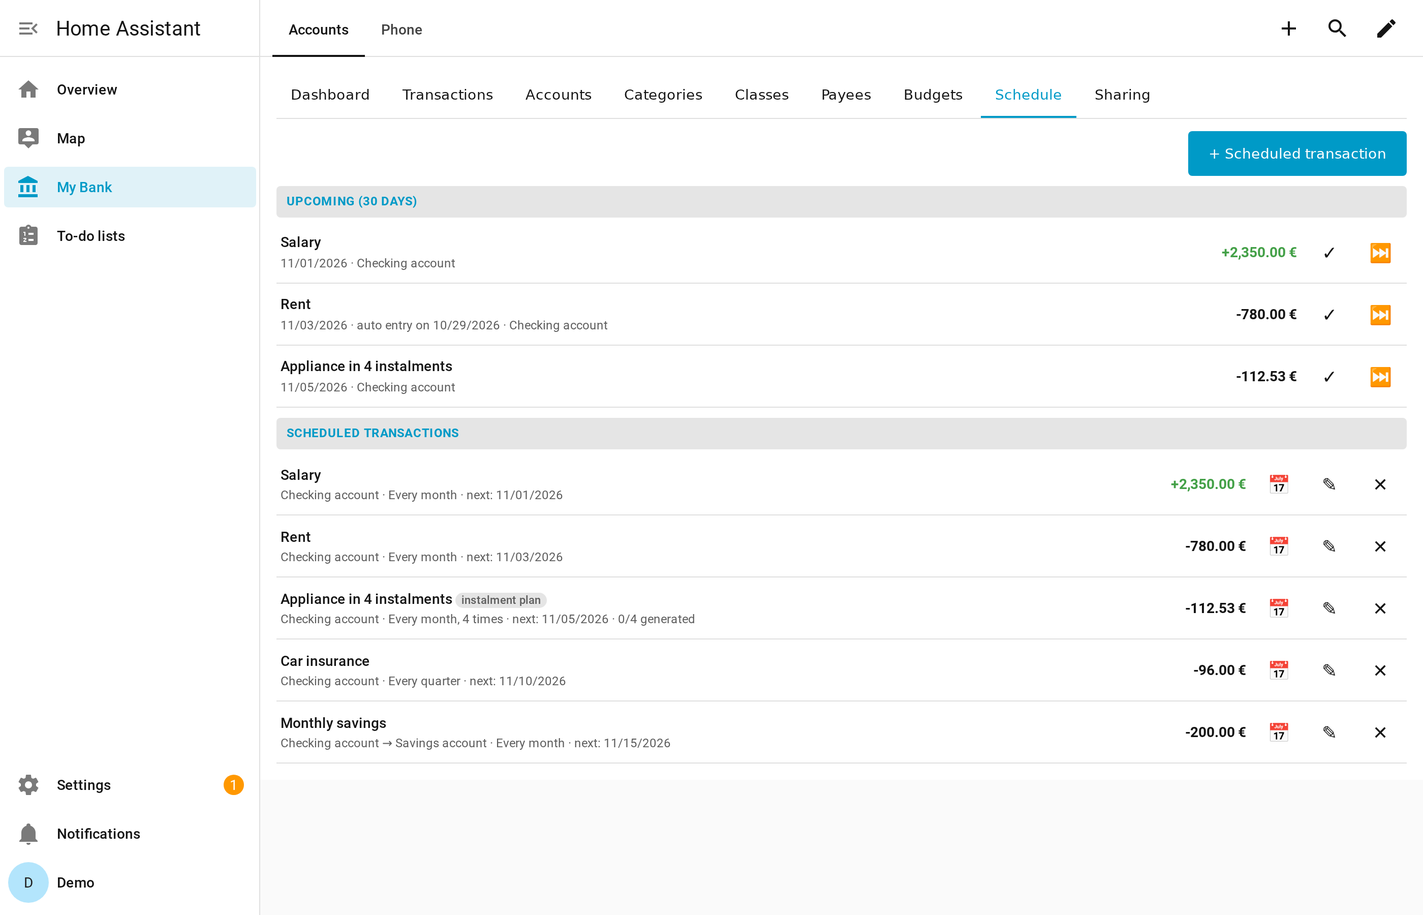
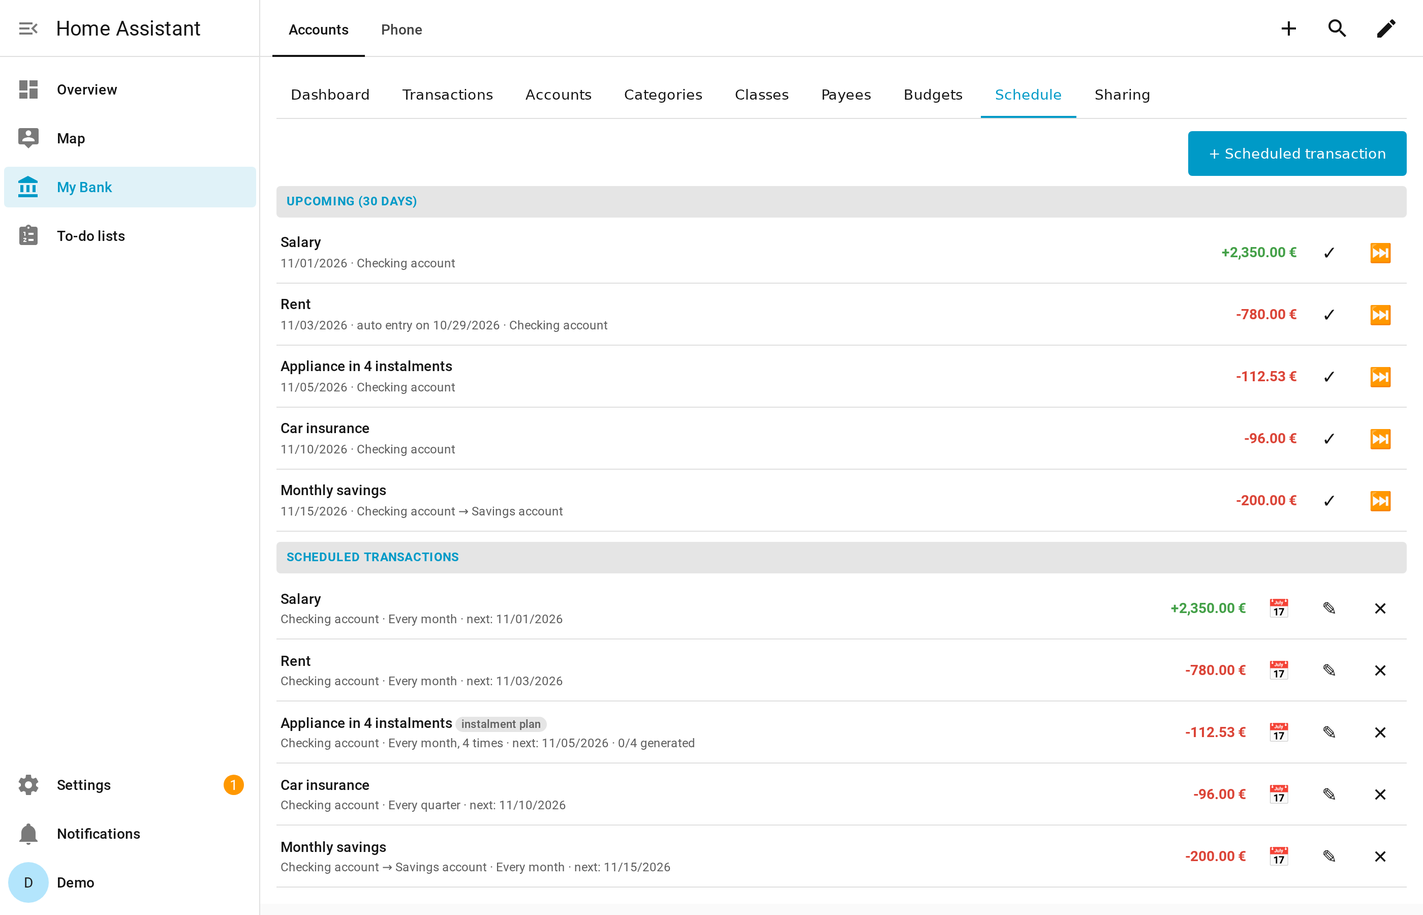
0.13.2 : montants en rouge (dépenses) / vert (recettes), README allemand, section rubriques et classes
- Liste des opérations, échéances à venir et planifications : montants négatifs en rouge
  (les positifs étaient déjà en vert).
- README.de.md (traduction complète), liens entre les trois README.
- Nouvelle section « Rubriques et classes » (EN/FR/DE) : la rubrique d'abord, la classe
  pour l'analytique (exemple Essence / Véhicule A / Véhicule B).
- Captures opérations et planifications refaites dans les trois langues.

diff --git a/custom_components/my_bank/www/my-bank-card.js b/custom_components/my_bank/www/my-bank-card.js
@@ -236,6 +236,7 @@ const STYLE = `
   .tx-amounts { text-align: right; flex-shrink: 0; }
   .tx-amount { font-size: 14px; font-weight: 600; }
   .tx-amount.credit { color: var(--success-color, #43a047); }
+  .tx-amount.debit { color: var(--error-color, #db4437); }
   .tx-balance { font-size: 11px; color: var(--secondary-text-color); }
   .tx-actions { display: flex; gap: 6px; flex-shrink: 0; }
   .tx-actions button.tx-state { border: 1px solid var(--divider-color); border-radius: 4px; line-height: 1; opacity: 0.45; }
@@ -847,7 +848,7 @@ class MyBankCard extends HTMLElement {
         </div>
         <div class="tx-right">
           <div class="tx-amounts">
-            <div class="tx-amount ${credit ? "credit" : ""}">${credit ? "+" : ""}${fmtAmount(tx.amount)} €</div>
+            <div class="tx-amount ${credit ? "credit" : Number(tx.amount) < 0 ? "debit" : ""}">${credit ? "+" : ""}${fmtAmount(tx.amount)} €</div>
             <div class="tx-balance">${t("Solde :")} ${fmtAmount(tx.balance_after)}</div>
           </div>
           <div class="tx-actions">
@@ -1457,7 +1458,7 @@ class MyBankCard extends HTMLElement {
               ].filter(Boolean).join(" · "))}</div>
             </div>
             <div class="tx-right">
-              <div class="tx-amounts"><div class="tx-amount ${Number(o.amount) > 0 ? "credit" : ""}">${Number(o.amount) > 0 ? "+" : ""}${fmtAmount(o.amount)} €</div></div>
+              <div class="tx-amounts"><div class="tx-amount ${Number(o.amount) > 0 ? "credit" : Number(o.amount) < 0 ? "debit" : ""}">${Number(o.amount) > 0 ? "+" : ""}${fmtAmount(o.amount)} €</div></div>
               <div class="tx-actions">
                 <button class="occ-generate" title="${t("Saisir l'opération maintenant")}">✓</button>
                 <button class="occ-skip" title="${t("Sauter cette échéance")}">⏭</button>
@@ -1485,7 +1486,7 @@ class MyBankCard extends HTMLElement {
               <div class="tx-sub">${esc(sub.join(" · "))}</div>
             </div>
             <div class="tx-right">
-              <div class="tx-amounts"><div class="tx-amount ${Number(amount) > 0 ? "credit" : ""}">${Number(amount) > 0 ? "+" : ""}${fmtAmount(amount)} €</div></div>
+              <div class="tx-amounts"><div class="tx-amount ${Number(amount) > 0 ? "credit" : Number(amount) < 0 ? "debit" : ""}">${Number(amount) > 0 ? "+" : ""}${fmtAmount(amount)} €</div></div>
               <div class="tx-actions">
                 <button class="grid" title="${t("Échéances")}">📅</button>
                 <button class="edit" title="${t("Modifier")}">✎</button>

diff --git a/custom_components/my_bank/frontend.py b/custom_components/my_bank/frontend.py
@@ -17,7 +17,7 @@ from .const import DOMAIN
 
 _LOGGER = logging.getLogger(__name__)
 
-CARD_VERSION = "0.13.1"
+CARD_VERSION = "0.13.2"
 CARD_URL_PATH = "/my_bank/my-bank-card.js"
 _REGISTERED = f"{DOMAIN}_frontend_registered"
 

diff --git a/README.de.md b/README.de.md
@@ -1,0 +1,233 @@
+# My Bank für Home Assistant
+
+🇬🇧 [Read in English](https://github.com/Patafoin/ha-my-bank/blob/main/README.md) · 🇫🇷 [Lire en français](https://github.com/Patafoin/ha-my-bank/blob/main/README.fr.md)
+
+[![hacs_badge](https://img.shields.io/badge/HACS-Custom-41BDF5.svg)](https://hacs.xyz/)
+[![Validate](https://github.com/Patafoin/ha-my-bank/actions/workflows/validate.yml/badge.svg)](https://github.com/Patafoin/ha-my-bank/actions/workflows/validate.yml)
+[![Tests](https://github.com/Patafoin/ha-my-bank/actions/workflows/tests.yml/badge.svg)](https://github.com/Patafoin/ha-my-bank/actions/workflows/tests.yml)
+
+Persönliche Finanzverwaltung in Home Assistant, so wie Haushaltsbuch-Programme am Computer: Konten mit drei Kontoständen, abgeglichene und abgestimmte Buchungen, Aufteilungen, Umbuchungen, hierarchische Kategorien, Daueraufträge, Budgets und geteilte Ausgaben unter Freunden — über eine Dashboard-Karte, auf dem Handy, überall.
+
+![Übersicht](docs/images/de/card-dashboard.png)
+
+💬 Fragen, Rückmeldungen, Ideen: [Diskussion im Home Assistant Community-Forum](https://community.home-assistant.io/t/my-bank-personal-bookkeeping-in-home-assistant-accounts-budgets-charts-scheduled-shared-expenses-100-local/1029114) (auf Englisch).
+
+> Verfügbar auf **Englisch, Französisch und Deutsch** (Karten, Dienste, Einrichtung, Servermeldungen), je nach Sprache von Home Assistant.
+
+## Funktionsweise
+
+My Bank besteht aus zwei Teilen:
+
+| Teil | Was es ist | Installation |
+|---|---|---|
+| **My Bank API** | Der Server: speichert Ihre Daten in einer lokalen SQLite-Datenbank, berechnet Kontostände und Budgets, erzeugt die Daueraufträge, sichert sich jede Nacht selbst | Home Assistant **App** (früher *Add-on*; Home Assistant OS / Supervised) oder **Docker**-Container |
+| **My Bank** (dieses Repository) | Die Integration und ihre Lovelace-Karten: Sensoren, Dienste und Benutzeroberfläche | **HACS** |
+
+Die Integration ist ein schlanker Client: Alle Regeln (Kontostände, Sperre abgestimmter Buchungen, Budgetberechnungen…) liegen im Server. Ihre Daten verlassen nie Ihr Netzwerk.
+
+## Voraussetzungen
+
+- Home Assistant **2026.2 oder neuer** und [HACS](https://hacs.xyz/) zur Installation der Integration. Getestet mit 2026.2.3 und 2026.10.0.
+- Für den Server, wahlweise:
+  - **Home Assistant OS** oder eine **Supervised**-Installation auf einem 64-Bit-System (amd64 oder aarch64, z. B. Raspberry Pi 4/5 mit dem 64-Bit-Image), um die App zu nutzen — getestet mit Home Assistant OS 18.3;
+  - oder **Docker** auf einem beliebigen 64-Bit-Rechner in Ihrem Netzwerk (amd64 oder arm64), für Installationen von Home Assistant Container / Core.
+
+## Installation
+
+### 1. Der Server
+
+**Home Assistant OS / Supervised — App (empfohlen)**
+
+[![App-Repository zu Ihrem Home Assistant hinzufügen.](https://my.home-assistant.io/badges/supervisor_add_addon_repository.svg)](https://my.home-assistant.io/redirect/supervisor_add_addon_repository/?repository_url=https%3A%2F%2Fgithub.com%2FPatafoin%2Fha-addons)
+
+Oder von Hand: Einstellungen → **Apps** → **App installieren** → ⋮ → **Repositories**, `https://github.com/Patafoin/ha-addons` hinzufügen. Danach **My Bank API** installieren und starten. Das ist alles: Die App erstellt ein Zugriffstoken für Home Assistant und meldet sich von selbst.
+
+> Home Assistant-Versionen vor der Umbenennung nennen Apps **Add-ons** (Einstellungen → Add-ons → Add-on Store).
+
+**Home Assistant Container / Core — Docker**
+
+Erzeugen Sie zuerst das Zugriffstoken, eine lange Zufallszeichenkette, mit der Home Assistant mit dem Server spricht:
+
+```bash
+openssl rand -hex 32
+# oder: python3 -c "import secrets; print(secrets.token_urlsafe(32))"
+```
+
+Tragen Sie es unten in `MYBANK_API_TOKEN` ein und bewahren Sie es auf: Sie geben es in Schritt 3 in Home Assistant ein.
+
+```yaml
+# compose.yaml
+services:
+  my-bank-api:
+    image: ghcr.io/patafoin/my-bank-api:latest
+    container_name: my-bank-api
+    restart: unless-stopped
+    ports:
+      - "9931:8000"
+    volumes:
+      - ./data:/data
+      - ./backups:/backups
+    environment:
+      TZ: Europe/Berlin
+      MYBANK_API_TOKEN: "hier-das-erzeugte-token-einfuegen"
+```
+
+```bash
+docker compose up -d
+curl http://localhost:9931/api/v1/health   # der Server antwortet
+```
+
+Das Token wird gehasht in der Datenbank gespeichert. Ändern Sie die Variable und starten Sie neu, um es zu ersetzen; entfernen Sie sie, um es zu widerrufen. Wenn Sie das Token nicht in `compose.yaml` aufbewahren möchten, lassen Sie `MYBANK_API_TOKEN` weg und erstellen Sie stattdessen eines im Container: `docker exec my-bank-api my-bank token create ha` (wird nur einmal angezeigt).
+
+Alle Einstellungen stehen im [README von My Bank API](https://github.com/Patafoin/my-bank-api) (auf Englisch).
+
+### 2. Die Integration
+
+[![Dieses Repository in HACS öffnen.](https://my.home-assistant.io/badges/hacs_repository.svg)](https://my.home-assistant.io/redirect/hacs_repository/?owner=Patafoin&repository=ha-my-bank&category=integration)
+
+In HACS: ⋮ → **Benutzerdefinierte Repositories** → `https://github.com/Patafoin/ha-my-bank`, Typ **Integration**. **My Bank** herunterladen und Home Assistant neu starten.
+
+### 3. Verbinden
+
+- **Mit der App**: Einstellungen → Geräte & Dienste zeigt **My Bank** als entdeckt an. Auf **Konfigurieren** klicken und bestätigen.
+- **Mit Docker**: Einstellungen → Geräte & Dienste → **Integration hinzufügen** → **My Bank**, dann die Server-URL (z. B. `http://192.168.1.10:9931`) und das in Schritt 1 erzeugte Token eingeben.
+
+![Einrichtung](docs/images/de/config-flow.png)
+
+### 4. Die Karte hinzufügen
+
+Die Karte wird automatisch registriert (keine Ressource hinzuzufügen). Ein Dashboard bearbeiten → **Karte hinzufügen** → **My Bank**.
+
+Wenn die Karten nach einer Installation oder einem Update nicht in der Auswahl erscheinen, laden Sie die Seite ohne Cache neu (Strg+F5) oder leeren Sie den Cache der Companion-App. Die benutzerdefinierten Karten stehen unten in der Auswahl, oder suchen Sie nach „bank“.
+
+## Die Karten
+
+### `custom:my-bank-card` — alles, ein Reiter pro Thema
+
+| Reiter (Schlüssel `sections`) | Inhalt |
+|---|---|
+| `dashboard` | Kontostände aller Konten, Budget des laufenden Monats |
+| `transactions` | Buchungen eines Kontos mit laufendem Kontostand; Filter; Hinzufügen, Bearbeiten, Aufteilen, Umbuchen; Abgleichen (☐/☑) und Abstimmen (🔓/🔒) mit einem Klick |
+| `accounts` | Konten (Girokonto, Sparkonto, Karte, Bargeld…), Anfangssaldo, Schließung |
+| `categories` / `tags` | Kategorienbaum (Einnahmen / Ausgaben / Sparen) und Klassen, eine zweite Achse für Auswertungen — siehe [Kategorien und Klassen](#kategorien-und-klassen) |
+| `payees` | Empfänger mit Standardkategorie |
+| `budgets` | Monatsbudget pro Konto: geplant / tatsächlich, Abweichung, Kopie eines früheren Budgets |
+| `recurrences` | Daueraufträge (periodisch oder Ratenpläne), anstehende Ausführungen, automatische Erzeugung |
+| `shares` | Geteilte Ausgaben einer Gruppe (Urlaub…): wer als Nächstes zahlt, wer wem am Ende wie viel schuldet |
+
+```yaml
+type: custom:my-bank-card
+sections:        # optional: ohne diesen Schlüssel werden alle Reiter angezeigt
+  - dashboard
+  - transactions
+```
+
+Geben Sie jeder Karteninstanz eigene `sections`, um eine Ansicht nur für die Erfassung, eine Ansicht für die Einstellungen usw. zusammenzustellen.
+
+| Buchungen | Budgets |
+|---|---|
+| ![Buchungen](docs/images/de/card-transactions.png) | ![Budgets](docs/images/de/card-budgets.png) |
+
+| Daueraufträge | Geteilte Ausgaben |
+|---|---|
+| ![Daueraufträge](docs/images/de/card-schedules.png) | ![Geteilte Ausgaben](docs/images/de/card-shares.png) |
+
+### Kleine Karten für ein Handy-Dashboard
+
+<img src="docs/images/de/mobile-cards.png" alt="Dashboard auf dem Handy" width="320" align="right">
+
+| Karte | Optionen |
+|---|---|
+| `custom:my-bank-balance-card` | `account_id` — die drei Kontostände eines Kontos |
+| `custom:my-bank-entry-card` | `account_id`, `fields` — Schnellerfassung, vorausgefüllt anhand des Empfängers; die Schaltfläche „Alle Felder“ zeigt die ausgeblendeten Felder |
+| `custom:my-bank-budget-card` | `budget_id`, `levels`, `period` (`month`, `cumul`, `all`) |
+| `custom:my-bank-balance-history-card` | `account_ids`, `period` — Kontostandsverlauf (Linie) eines oder mehrerer Konten; eine Karte = ein Diagramm, mehrere Karten kombinieren, um Konten unterschiedlicher Größenordnung zu trennen |
+| `custom:my-bank-upcoming-charge-card` | `account_ids`, `horizon` — Betrag der anstehenden Ausführungen, je nach Zeitraum pro Woche oder pro Monat |
+| `custom:my-bank-category-spending-card` | `account_ids`, `period` — Ausgaben nach Kategorie (Balken), der höchste Betrag entspricht 100 % |
+| `custom:my-bank-share-card` | — geteilte Ausgaben |
+
+Alle Karten haben einen visuellen Editor.
+
+<br clear="right">
+
+**Diagrammkarten** — Kontostandsverlauf, anstehende Ausführungen, Ausgaben nach Kategorie:
+
+![Diagrammkarten](docs/images/chart-cards.png)
+
+## Kategorien und Klassen
+
+My Bank bietet zwei Möglichkeiten, eine Buchung einzuordnen: die **Kategorie** und die **Klasse**. Sie haben nicht dieselbe Aufgabe.
+
+**Die Kategorie: wofür das Geld war — verwenden Sie sie vorrangig.** Sie beantwortet die Frage „wofür wurde das ausgegeben (oder eingenommen)?“: Lebensmittel, Wohnen, Kraftstoff… Alles ist um sie herum aufgebaut:
+- die **Budgets** (geplant / tatsächlich pro Kategorie),
+- die Karte **Ausgaben nach Kategorie**,
+- der Baum Einnahmen / Ausgaben / Sparen mit seinen Unterkategorien,
+- die **Standardkategorie** der Empfänger, die die Erfassung vorausfüllt.
+
+Eine Buchung ohne Kategorie taucht in keiner dieser Auswertungen auf.
+
+**Die Klasse: eine zusätzliche, optionale Achse für Auswertungen.** Sie beantwortet eine andere Frage: „für wen oder wofür genau?“. Sie dient der Analyse: Buchungen aus verschiedenen Kategorien zusammenfassen oder eine Kategorie aufteilen. Klassen haben kein Budget; man nutzt sie vor allem, um die Buchungsliste zu filtern, die dann die Summe anzeigt.
+
+**Beispiel: zwei Fahrzeuge**
+
+| Buchung | Kategorie | Klasse |
+|---|---|---|
+| Tanken, 60 € | Kraftstoff | Fahrzeug A |
+| Tanken, 45 € | Kraftstoff | Fahrzeug B |
+| Inspektion, 180 € | Fahrzeugwartung | Fahrzeug A |
+
+- Die Kategorie **Kraftstoff** bringt die 105 € Kraftstoff ins Budget und in die Ausgabenkarte, egal welches Fahrzeug.
+- Die Klasse **Fahrzeug A** zeigt, was dieses Fahrzeug kostet (240 €, Kraftstoff und Wartung zusammen): Filtern Sie die Buchungsliste nach dieser Klasse. Mit Kategorie = Kraftstoff und Klasse = Fahrzeug A erhalten Sie nur den Kraftstoff dieses Fahrzeugs.
+
+Vermeiden Sie es, nur die Klasse ohne Kategorie zu setzen: Die Auswertung pro Fahrzeug würde weiterhin funktionieren, aber diese Ausgaben würden aus dem Budget und aus der Karte Ausgaben nach Kategorie verschwinden. Vermeiden Sie auch Kategorien wie „Kraftstoff Fahrzeug A“ und „Kraftstoff Fahrzeug B“: Das vervielfacht die Budgetzeilen für eine Information, die die Klasse bereits liefert.
+
+**Kurz gesagt**: Setzen Sie immer die Kategorie. Fügen Sie eine Klasse hinzu, wenn Sie einen Gegenstand, ein Projekt oder eine Person über mehrere Kategorien hinweg verfolgen möchten. In einer aufgeteilten Buchung hat jede Zeile ihre eigene Kategorie und ihre eigene Klasse.
+
+## Entitäten
+
+- **Ein Sensor pro Konto**: Zustand = Gesamtsaldo (einschließlich Buchungen mit künftigem Datum); Attribute `solde_pointe` (abgeglichen), `solde_rapproche` (abgestimmt), `account_id`, `kind`, `iban`, `closed`. Wird alle 5 Minuten und nach jeder Änderung aktualisiert.
+- **Auslaufende Daueraufträge** (`sensor.auslaufende_dauerauftrage` auf einer deutschen Installation; die Entitäts-ID folgt der Sprache von Home Assistant beim Hinzufügen der Integration): Anzahl der Daueraufträge, deren letzte Ausführung in die nächsten 30 Tage fällt, mit der Liste als Attribute — praktisch für eine Benachrichtigungs-Automatisierung.
+
+## Dienste
+
+Jedes Objekt kann aus Automatisierungen und Skripten heraus erstellt, geändert oder gelöscht werden: `my_bank.create_transaction`, `create_transfer`, `set_transaction_state`, `create_schedule`, `set_budget_lines`, `add_shared_expense`… (über 50 Dienste, siehe **Entwicklerwerkzeuge → Aktionen**). Die Lesedienste (`list_accounts`, `search_transactions`, `get_budget_report`…) geben Daten über `response_variable` zurück.
+
+```yaml
+action: my_bank.create_transaction
+data:
+  account_id: 1
+  date: "2026-10-09"
+  amount: "-12.50"
+  payee_name: Bäckerei
+  category_id: 5
+```
+
+## Sprachen
+
+Die Karten, die Einrichtungsdialoge, die Dienste und die Fehlermeldungen des Servers folgen der Sprache von Home Assistant: Englisch, Französisch oder Deutsch (Englisch für jede andere Sprache). Bei einer Neuinstallation werden die vom Server standardmäßig angelegten Zahlungsarten in diese Sprache umbenannt.
+
+## Aktualisierung
+
+Aktualisieren Sie die Integration mit HACS und den Server unter Einstellungen → Apps (oder `docker compose pull`). Ist der Server zu alt für die Integration, meldet Home Assistant dies über eine Reparaturmeldung.
+
+## Import aus MS Comptes Bancaires
+
+Der Server importiert die QIF-Exporte und die Empfänger-CSV von MS Comptes Bancaires — siehe [README von My Bank API](https://github.com/Patafoin/my-bank-api).
+
+## Sicherheit
+
+Behalten Sie My Bank API in Ihrem lokalen Netzwerk. Stellen Sie sie nie ins Internet: Der Fernzugriff läuft über Home Assistant, das die Authentifizierung bereits übernimmt.
+
+## Übersetzungen
+
+Eine Sprache hinzuzufügen oder zu verbessern ist willkommen:
+
+- Texte von Home Assistant (Einrichtung, Dienste, Reparaturen): `custom_components/my_bank/translations/<sprache>.json`, mit `strings.json` als englischer Quelle.
+- Karten: das Wörterbuch `I18N` am Ende von `custom_components/my_bank/www/my-bank-card.js`, nach dem französischen Text der Karte indiziert.
+- Servermeldungen: `src/my_bank_api/i18n_messages.py` in [my-bank-api](https://github.com/Patafoin/my-bank-api).
+
+Die Tests prüfen, dass jeder Text eine englische und eine deutsche Version mit denselben `{Platzhaltern}` hat.
+
+## Lizenz
+
+MIT

diff --git a/README.fr.md b/README.fr.md
@@ -1,6 +1,6 @@
 # My Bank pour Home Assistant
 
-🇬🇧 [Read in English](https://github.com/Patafoin/ha-my-bank/blob/main/README.md)
+🇬🇧 [Read in English](https://github.com/Patafoin/ha-my-bank/blob/main/README.md) · 🇩🇪 [Auf Deutsch lesen](https://github.com/Patafoin/ha-my-bank/blob/main/README.de.md)
 
 [![hacs_badge](https://img.shields.io/badge/HACS-Custom-41BDF5.svg)](https://hacs.xyz/)
 [![Validate](https://github.com/Patafoin/ha-my-bank/actions/workflows/validate.yml/badge.svg)](https://github.com/Patafoin/ha-my-bank/actions/workflows/validate.yml)
@@ -109,7 +109,7 @@ Si les cartes n'apparaissent pas dans le sélecteur après une installation ou u
 | `dashboard` | Soldes de tous les comptes, budget du mois en cours |
 | `transactions` | Opérations d'un compte avec solde progressif ; filtres ; ajout, modification, ventilation, virement ; pointage (☐/☑) et rapprochement (🔓/🔒) en un clic |
 | `accounts` | Comptes (courant, épargne, carte, espèces…), solde initial, clôture |
-| `categories` / `tags` | Arborescence des catégories (recettes / dépenses / épargne) et un second axe de classement libre |
+| `categories` / `tags` | Arborescence des rubriques (recettes / dépenses / épargne) et classes, un second axe d'analyse — voir [Rubriques et classes](#rubriques-et-classes) |
 | `payees` | Tiers avec catégorie par défaut |
 | `budgets` | Budget mensuel par compte : prévu / réalisé, écart, copie d'un budget précédent |
 | `recurrences` | Opérations planifiées (périodiques ou échéanciers), prochaines échéances, génération automatique |
@@ -153,6 +153,35 @@ Toutes les cartes disposent d'un éditeur visuel.
 **Cartes graphiques** — évolution du solde, échéances à venir, dépenses par rubrique :
 
 ![Cartes graphiques](docs/images/chart-cards.png)
+
+## Rubriques et classes
+
+My Bank propose deux façons de classer une opération : la **rubrique** et la **classe**. Elles n'ont pas le même rôle.
+
+**La rubrique : la nature de la dépense ou de la recette, à utiliser en priorité.** Elle répond à la question « à quoi a servi cet argent ? » : Alimentation, Logement, Essence… C'est autour d'elle que tout est construit :
+- les **budgets** (prévu / réalisé par rubrique),
+- la carte **dépenses par rubrique**,
+- l'arborescence recettes / dépenses / épargne, avec ses sous-rubriques,
+- la **rubrique par défaut** des tiers, qui pré-remplit la saisie.
+
+Une opération sans rubrique n'apparaît dans aucun de ces suivis.
+
+**La classe : un axe d'analyse en plus, facultatif.** Elle répond à une autre question : « pour qui ou pour quoi ? ». Elle sert à l'analytique : regrouper des opérations de rubriques différentes ou découper une même rubrique. Les classes n'ont pas de budget ; on s'en sert surtout pour filtrer la liste des opérations, qui affiche alors le total.
+
+**Exemple : deux véhicules**
+
+| Opération | Rubrique | Classe |
+|---|---|---|
+| Plein, 60 € | Essence | Véhicule A |
+| Plein, 45 € | Essence | Véhicule B |
+| Révision, 180 € | Entretien véhicule | Véhicule A |
+
+- La rubrique **Essence** fait apparaître les 105 € de carburant dans le budget et la carte des dépenses, quel que soit le véhicule.
+- La classe **Véhicule A** permet de voir ce que coûte ce véhicule-là (240 €, essence et entretien compris) : filtrez la liste des opérations sur cette classe. Avec le filtre Rubrique = Essence et Classe = Véhicule A, on obtient l'essence de ce véhicule seulement.
+
+À éviter : ne mettre que la classe, sans rubrique. L'analyse par véhicule fonctionnerait toujours, mais ces dépenses disparaîtraient du budget et de la carte des dépenses par rubrique. À éviter aussi : créer des rubriques « Essence véhicule A » et « Essence véhicule B ». Ça multiplie les lignes de budget pour une information que la classe donne déjà.
+
+**En résumé** : renseignez toujours la rubrique. Ajoutez une classe quand vous voulez suivre un objet, un projet ou une personne à travers plusieurs rubriques. Dans une opération ventilée, chaque ligne a sa propre rubrique et sa propre classe.
 
 ## Entités
 

diff --git a/README.md b/README.md
@@ -1,6 +1,6 @@
 # My Bank for Home Assistant
 
-🇫🇷 [Lire en français](https://github.com/Patafoin/ha-my-bank/blob/main/README.fr.md)
+🇫🇷 [Lire en français](https://github.com/Patafoin/ha-my-bank/blob/main/README.fr.md) · 🇩🇪 [Auf Deutsch lesen](https://github.com/Patafoin/ha-my-bank/blob/main/README.de.md)
 
 [![hacs_badge](https://img.shields.io/badge/HACS-Custom-41BDF5.svg)](https://hacs.xyz/)
 [![Validate](https://github.com/Patafoin/ha-my-bank/actions/workflows/validate.yml/badge.svg)](https://github.com/Patafoin/ha-my-bank/actions/workflows/validate.yml)
@@ -109,7 +109,7 @@ If the cards don't show up in the picker after installing or updating, force-rel
 | `dashboard` | Balances of every account, budget of the current month |
 | `transactions` | Transactions of an account with running balance; filters; add, edit, split, transfer; clear (☐/☑) and reconcile (🔓/🔒) in one click |
 | `accounts` | Accounts (checking, savings, card, cash…), opening balance, closing |
-| `categories` / `tags` | Category tree (income / expense / savings) and a second, free classification axis |
+| `categories` / `tags` | Category tree (income / expense / savings) and classes, a second axis for analysis — see [Categories and classes](#categories-and-classes) |
 | `payees` | Payees with default category |
 | `budgets` | Monthly budget per account: planned vs actual, variance, copy from a previous budget |
 | `recurrences` | Scheduled transactions (periodic or instalment plans), upcoming occurrences, automatic generation |
@@ -153,6 +153,35 @@ All cards have a visual editor.
 **Chart cards** — balance history, upcoming occurrences, expenses by category:
 
 ![Chart cards](docs/images/chart-cards.png)
+
+## Categories and classes
+
+My Bank offers two ways to classify a transaction: the **category** and the **class**. They do not play the same role.
+
+**The category: what the money was for — use it first.** It answers "what was this spent on (or received for)?": Groceries, Housing, Fuel… Everything is built around it:
+- **budgets** (planned vs actual per category),
+- the **spending by category** card,
+- the income / expense / savings tree, with its subcategories,
+- the **default category** of payees, which pre-fills the entry form.
+
+A transaction without a category shows up in none of these.
+
+**The class: an optional extra axis, for analysis.** It answers another question: "for whom, or for what?". It is there for analytics: grouping transactions from different categories, or splitting one category. Classes have no budget; you mostly use them by filtering the transaction list, which then shows the total.
+
+**Example: two cars**
+
+| Transaction | Category | Class |
+|---|---|---|
+| Fill-up, 60 € | Fuel | Vehicle A |
+| Fill-up, 45 € | Fuel | Vehicle B |
+| Service, 180 € | Vehicle maintenance | Vehicle A |
+
+- The **Fuel** category puts the 105 € of fuel in the budget and in the spending card, whichever the car.
+- The **Vehicle A** class tells you what that car costs (240 €, fuel and maintenance included): filter the transaction list on this class. With Category = Fuel and Class = Vehicle A, you get the fuel of that car only.
+
+Avoid setting only the class, without a category: the per-car analysis would still work, but these expenses would vanish from the budget and from the spending by category card. Avoid also creating "Fuel vehicle A" and "Fuel vehicle B" categories: that multiplies budget lines for information the class already gives.
+
+**In short**: always set the category. Add a class when you want to follow an object, a project or a person across several categories. In a split transaction, each line has its own category and its own class.
 
 ## Entities
 
